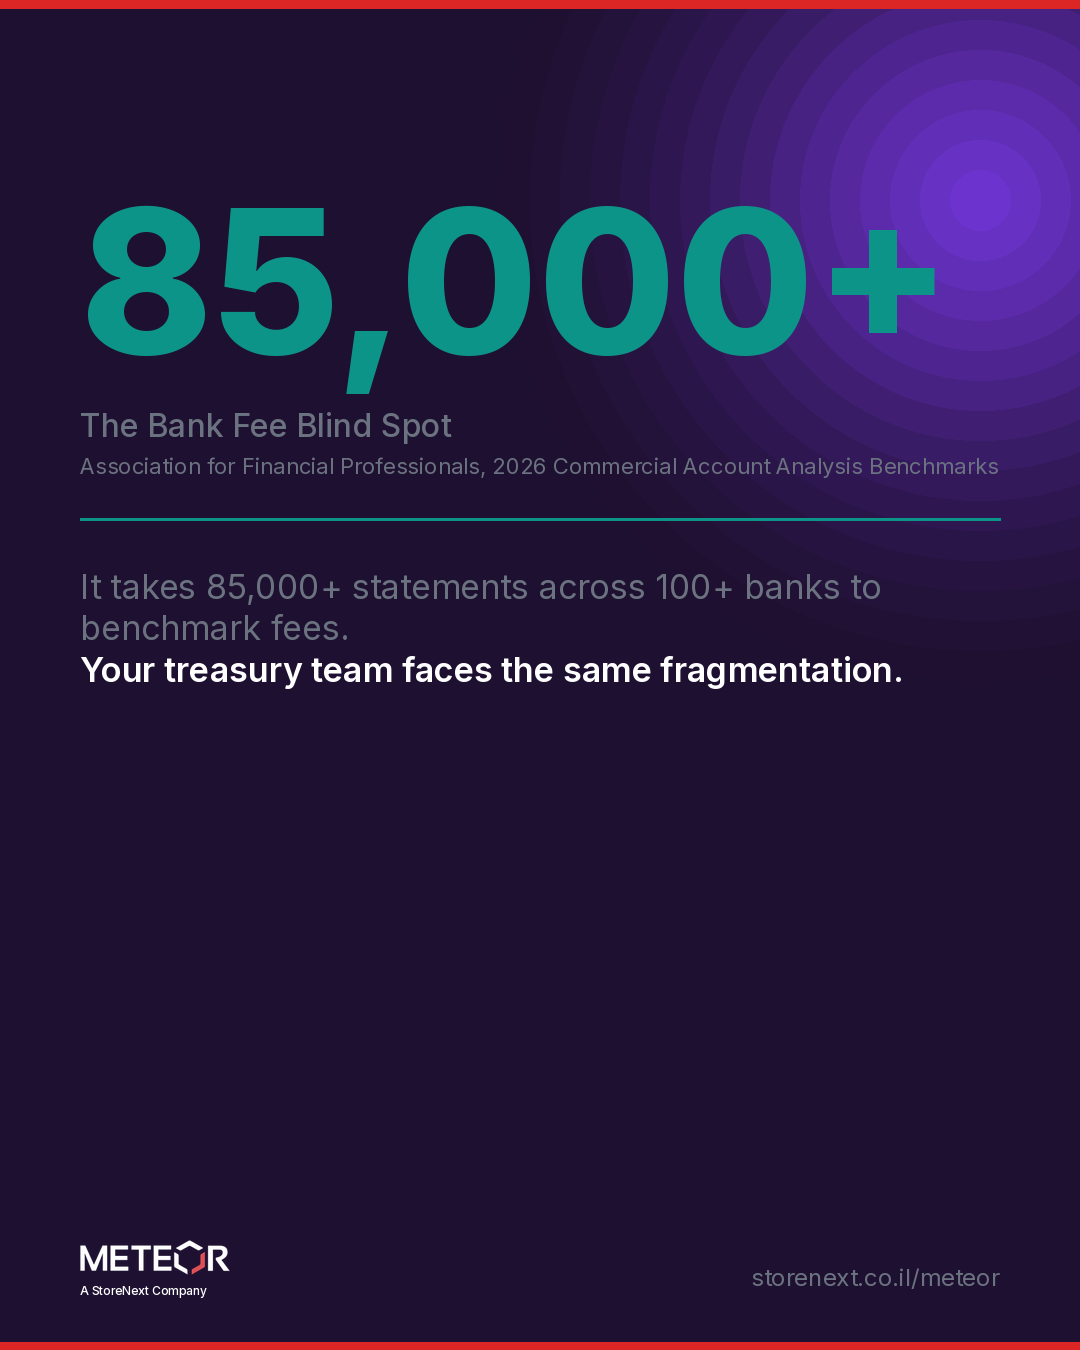
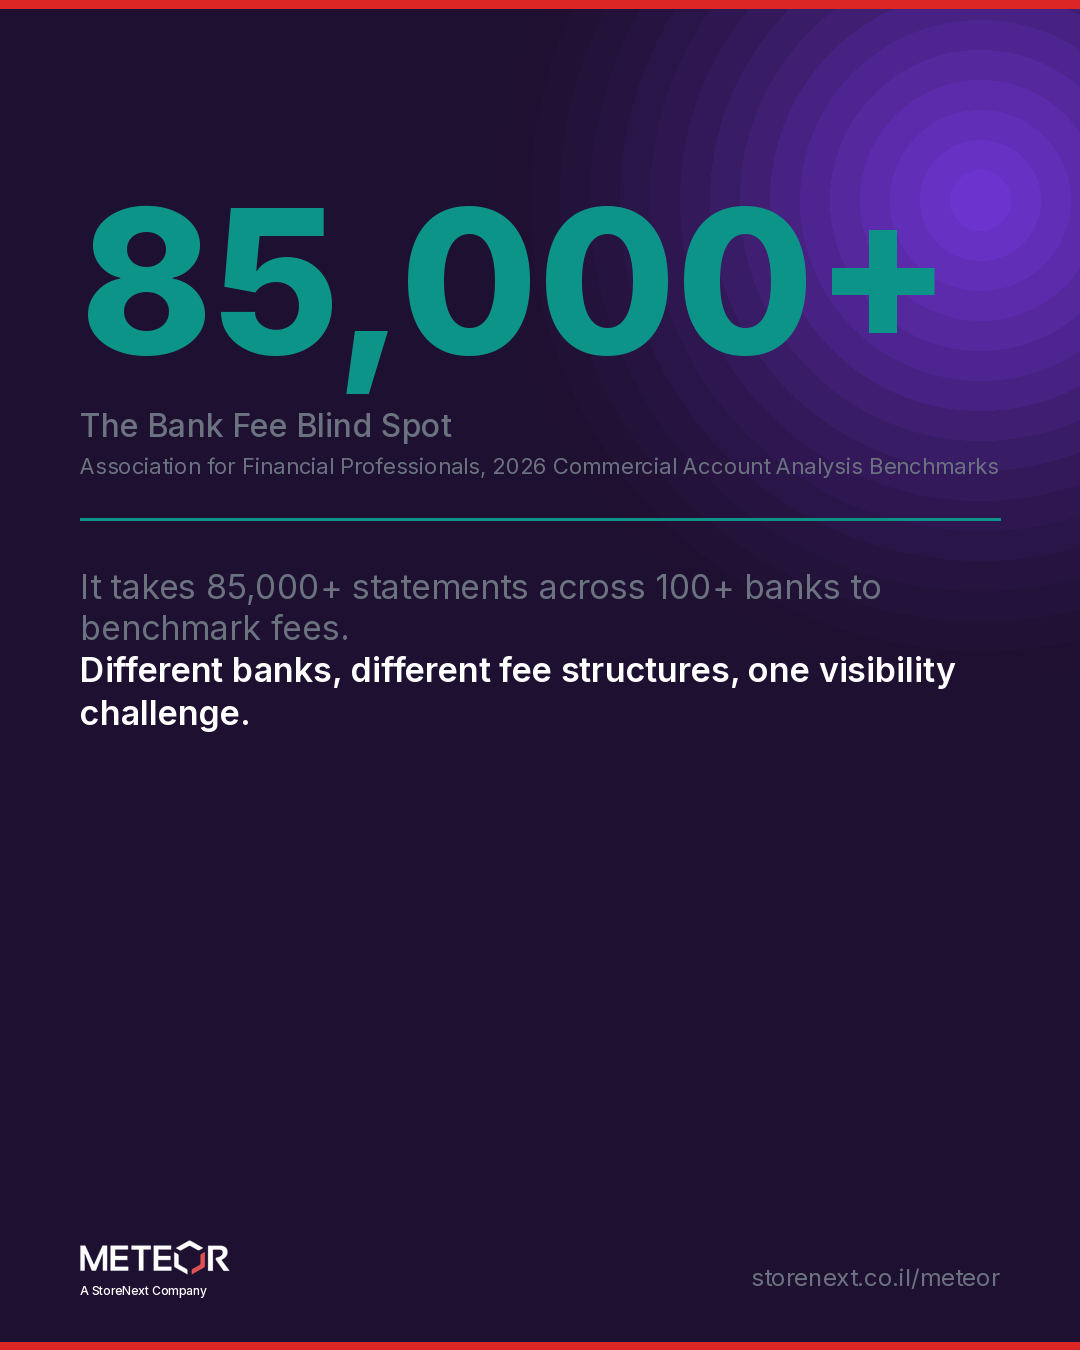
W39 Meteor: apply Ran's editorial pass, remove implied fee-analysis capability
Post rewritten to Ran's exact final text (softer hook, visibility/negotiation
framed bullets, "Consolidated fee data is a negotiating position" kept as
the core message). Article aligned to the same correction: bank aggregation
is the approved capability being pitched, not implied fee categorization,
trend detection, or automatic fee-increase alerts. Visual line changed from
extrapolating the AFP benchmark's scale onto every reader to a claim the
data actually supports.

Claude-Session: https://claude.ai/code/session_01CMPhB24ymUwmoZa8aTm7SH

Changed region(s): [[0.0611, 0.4667, 0.4889, 0.56], [0.5194, 0.4667, 0.8861, 0.5289]]

diff --git a/O-output/W39/final/article-meteor.md b/O-output/W39/final/article-meteor.md
@@ -4,7 +4,7 @@ Every CFO owns a bank fee line. Few can fully reconcile it.
 
 According to the Association for Financial Professionals' 2026 Commercial Account Analysis Benchmarks report, managing commercial bank fees remains a critical, increasingly complex task. Banks are now pushing fees back up after several years of smaller increases. AFP calls this a "rubber-band effect."
 
-The timing matters. CFO Dive reports that a Clearing House executive said finance and treasury leaders are prioritizing deeper visibility into payment rails and treasury systems, as business increasingly runs in real time. Fees are rising at the exact moment scrutiny is rising faster.
+The timing matters. CFO Dive reports that a Clearing House executive said finance and treasury leaders are prioritizing deeper visibility into payment rails and treasury systems, as business increasingly runs in real time. That broader visibility push reinforces the same pressure on bank fees, even though it is not fee-specific research on its own.
 
 This is not a fraud story. It is not an AI story. It is a structural visibility gap in a cost line every finance organization already carries.
 
@@ -46,26 +46,26 @@ The combination is unforgiving. Fees are rising at a moment when the tolerance f
 
 The structural problem has a structural answer. Direct connectivity to every banking relationship, feeding one consolidated, comparable data layer.
 
-This is exactly where direct bank aggregation becomes critical. Meteor connects directly to all Israeli banks and to more than 150 global banks. That connectivity converts scattered, bank-by-bank statement formats into a single, real-time ledger of fees, transactions, and account activity.
+This is exactly where direct bank aggregation becomes critical. Meteor connects directly to all Israeli banks and to more than 150 global banks. That connectivity brings scattered, bank-by-bank statements into one consolidated, current view of transactions and account activity, the foundation treasury needs before it can compare fees at all.
 
-The difference this makes is not cosmetic. It changes what treasury can actually see:
+The difference this makes is not cosmetic. It changes what treasury can actually work with:
 
-- **Fee categories become comparable across banks**, instead of trapped in each institution's own taxonomy.
-- **Fee trends become visible over time**, instead of discovered retroactively at quarter-end reconciliation.
-- **Fee increases become identifiable within days**, instead of buried in a stack of PDFs reviewed once a quarter.
-- **Multi-entity, multi-currency exposure becomes one view**, instead of a spreadsheet stitched together manually.
+- **All banking activity in one place**, instead of statements trapped in each institution's own format.
+- **Current account data, not a quarter-end snapshot**, so a fee change does not wait for the next reconciliation cycle to surface.
+- **Multi-entity, multi-currency activity in one view**, instead of a spreadsheet stitched together manually.
+- **A consistent data foundation treasury teams can build fee comparisons and analysis on**, rather than starting from scratch with every banking relationship.
 
 This is not about automating a task away. It is about giving treasury a data foundation that the underlying banking infrastructure never provided on its own.
 
 ## Turning Fee Visibility Into Negotiating Leverage, Not Just an Audit Trail
 
-Visibility alone is a compliance outcome. Leverage is a commercial outcome. The gap between them is what most fee transparency initiatives miss.
+Consolidated fee data is a negotiating position. Scattered statements are not. The gap between them is what most fee transparency initiatives miss.
 
-A consolidated fee ledger lets treasury do three things that scattered statements do not support:
+A consolidated, current view of banking activity lets treasury do three things that scattered statements do not support:
 
-1. **Benchmark internally.** Compare fee structures across banking relationships for functionally similar services, using the same categorization.
+1. **Benchmark internally.** Compare costs across banking relationships for functionally similar services, working from one consistent data source instead of reconciling formats bank by bank.
 2. **Benchmark externally.** Reference industry data, such as AFP's NDepth-based benchmarks, to confirm whether pricing sits inside or outside a reasonable range.
-3. **Negotiate from evidence.** Bring specific, dated, categorized fee data into a renewal conversation, rather than a general sense that costs feel high.
+3. **Negotiate from evidence.** Bring specific, dated fee data into a renewal conversation, rather than a general sense that costs feel high.
 
 This is the practical difference between an audit trail and a negotiating position. An audit trail documents what happened. A negotiating position changes what happens next.
 
@@ -86,4 +86,4 @@ If the honest answer to any of these is no, the underlying issue is rarely the b
 
 Bank fees are not going away, and based on AFP's 2026 data, they are not shrinking either. The organizations that manage this line item well in 2026 will not be the ones with the most aggressive negotiators. They will be the ones with the clearest data.
 
-Meteor's direct connectivity across Israeli and 150+ global banks exists to close exactly that gap. It turns scattered statements into one real-time ledger treasury teams can act on.
+Meteor's direct connectivity across Israeli and 150+ global banks exists to close exactly that gap. It replaces scattered, bank-by-bank statements with one consolidated, current view treasury teams can build fee comparisons and renewal conversations on.

diff --git a/O-output/W39/final/final-post-meteor.md b/O-output/W39/final/final-post-meteor.md
@@ -7,43 +7,41 @@
 
 ---
 
-Every CFO owns a bank fee line. Few can fully reconcile it.
+Your bank fees are rising. Can you see the full picture?
 
-In 2026, that gap is getting more expensive.
+According to AFP's 2026 Commercial Account Analysis Benchmarks, banks are pushing fees higher after several years of more moderate increases.
 
-The Association for Financial Professionals reports a "rubber-band effect." Banks are pushing fees back up after several years of smaller increases.
+The research draws on 85,000+ account analysis statements across 100+ banks worldwide.
 
-The timing is the real story. CFO Dive reports a Clearing House executive noting that treasury leaders now demand deeper visibility into payment and fee data as business runs in real time.
+That scale reveals a familiar treasury challenge.
 
-Fees are rising. Tolerance for not knowing is falling.
+Multiple banks. Multiple entities. Different fee structures, statement formats and billing cycles.
 
-Why is this so hard to see?
+The result?
 
-Enterprise treasury rarely banks with one institution. Multiple entities, currencies, and jurisdictions mean multiple banking relationships. Each sends its own statement format.
+Comparing banking costs across the enterprise becomes a manual, fragmented exercise.
 
-The scale is documented. AFP's benchmark data draws on 85,000+ account analysis statements across 100+ banks worldwide.
+And when fee information is scattered, treasury teams have less visibility into what they're paying, where costs are changing and which banking relationships deserve attention.
 
-A fee labeled one way at one bank appears under a different code, currency, or billing cycle at another. Comparing them means manual extraction and manual mapping.
+This is where connected treasury infrastructure matters.
 
-This is not a competence problem. Treasury teams are working with data never designed to be compared.
+A consolidated view across banking relationships creates the foundation for:
 
-This is exactly where direct bank aggregation becomes critical.
+- Greater visibility into banking costs
+- Better identification of changes and exceptions
+- More informed bank relationship management
+- Stronger, data-driven negotiations
 
-- Fee categories comparable across banks, not trapped in each taxonomy
-- Fee trends visible over time, not discovered at quarter-end
-- Fee increases identifiable within days, not at the next close
-- Multi-entity, multi-currency exposure in one view, not a manual spreadsheet
+Visibility is not just about knowing what you paid. It's about having the information to influence what you pay next.
 
-Visibility alone is a compliance outcome. Consolidated fee data is a negotiating position.
+Before your next banking renewal, ask yourself:
 
-An audit trail documents what happened. A negotiating position changes what happens next.
+Can you see the full cost of your banking relationships in one place?
 
-Before your next banking renewal, can you produce one consolidated fee report across every relationship, without manual reconciliation?
-
-#Treasury #CFO #FinancialOperations #BankFees #CashManagement #EnterpriseFinance #TreasuryManagement
+#Treasury #CFO #BankFees #CashManagement #TreasuryManagement #EnterpriseFinance
 
 ---
 
-**First comment:** Full article here: [storenext.io/insights/bank-fee-visibility-2026]. It breaks down why multi-bank fee data resists consolidation, and the four questions to answer before your next banking renewal.
+**First comment:** Full article here: [storenext.io/insights/bank-fee-visibility-2026]. It breaks down why bank fee visibility is harder than it looks, and four questions to ask before your next banking renewal.
 
 **Article:** Bank Fees Are Climbing Again in 2026. Most CFOs Still Can't See What They're Paying. (attached to the email; upload to the website)

diff --git a/O-output/W39/process/content-process-log-meteor.md b/O-output/W39/process/content-process-log-meteor.md
@@ -7,3 +7,40 @@
 - Pipeline: automated (Researcher -> Copywriter -> Gatekeeper -> Artist -> Email)
 - Gatekeeper verdict: REVISED
 - Delivery: email to Ran for manual upload (article + post + visual)
+
+## Manual revision (2026-09-22, per Ran's review)
+
+Ran called the concept strong (bank fees reframed as a Financial Visibility /
+negotiating-leverage story) and the visual eye-catching, but flagged a gap
+between what the AFP research proves and what the post implied about Meteor's
+capabilities.
+
+1. **Sources checked.** AFP's 85,000+ statements / 100+ banks figure:
+   verified, matches the AFP 2026 Commercial Account Analysis Benchmarks
+   report. CFO Dive / Clearing House visibility quote: verified but not
+   fee-specific research; reframed in the article as general trend
+   reinforcement, not direct evidence for the fee-fragmentation claim.
+2. **Post rewritten to Ran's exact final text.** Softer hook ("Can you see
+   the full picture?" instead of an unproven "Few can fully reconcile it"),
+   bullets reframed around visibility/negotiation outcomes rather than
+   implied fee categorization or automatic increase-detection, "Consolidated
+   fee data is a negotiating position" kept as the one message to remember,
+   "Visibility alone is a compliance outcome" dropped as imprecise (real-time
+   bank aggregation gives visibility, not automated fee analysis or
+   normalization; that combination is not a Meteor capability without
+   product-team confirmation).
+3. **Article aligned to the same correction.** Bullets and closing paragraph
+   rewritten to describe consolidated, current banking data as the
+   foundation treasury builds fee comparisons on, not automatic fee
+   categorization, trend detection, or "real-time ledger" language the
+   product does not confirm.
+4. **Visual fixed.** Bottom line changed from "Your treasury team faces the
+   same fragmentation" (extrapolating a benchmark's research scale onto
+   every reader) to "Different banks, different fee structures, one
+   visibility challenge", staying faithful to what the AFP data actually
+   shows without a broad claim about every organization's complexity.
+
+No change was needed to `C-core/product-capabilities.md` this time: bank
+aggregation is already the approved Meteor capability being pitched; the fix
+was removing implied fee-categorization/analysis features layered on top of
+it without product-team confirmation.
